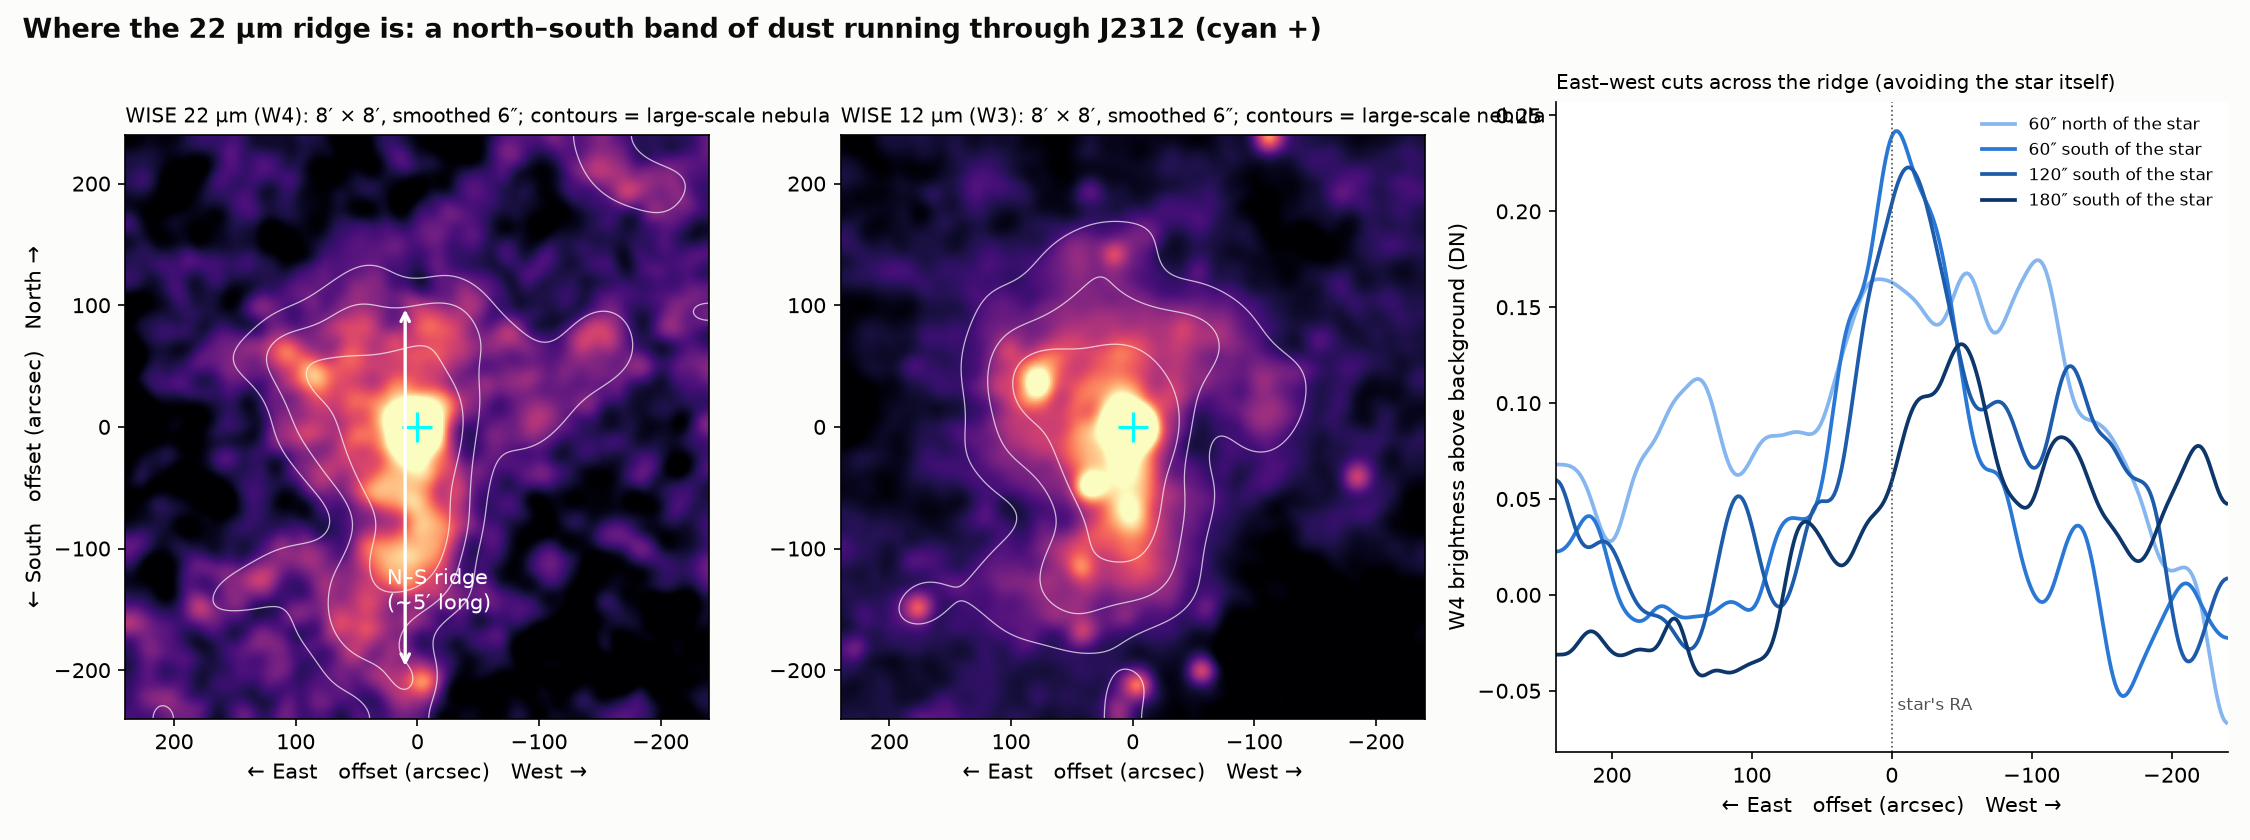
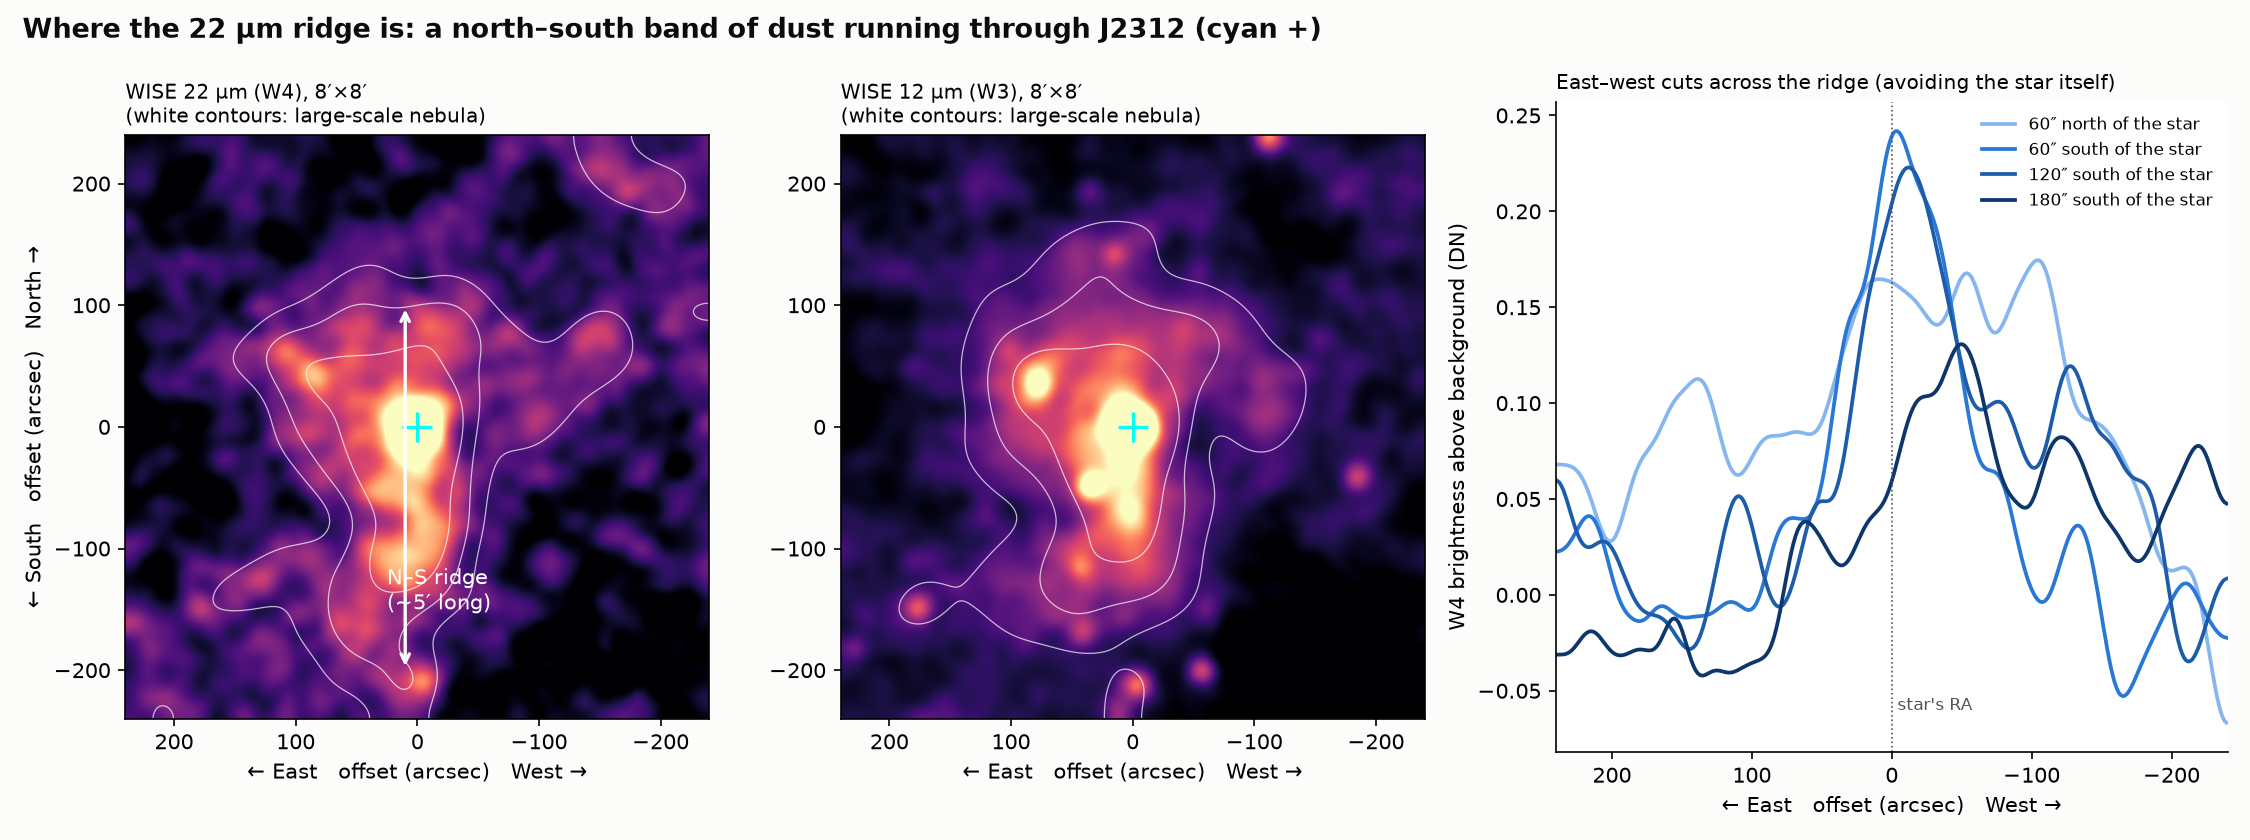
J2312 ridge figure: fix broken title string and overlapping titles

Changed region(s): [[0.0622, 0.0929, 0.6844, 0.1548]]

diff --git a/src/checks/j2312_ridge_plot.py b/src/checks/j2312_ridge_plot.py
@@ -42,8 +42,7 @@ for k, (b, lab) in enumerate((("w4", "WISE 22 µm (W4)"), ("w3", "WISE 12 µm (W
         ax.text(25, -150, "N–S ridge\n(~5′ long)", color="w", fontsize=10, ha="left")
     ax.set_xlim(half, -half); ax.set_ylim(-half, half)
     ax.set_xlabel("← East   offset (arcsec)   West →"); ax.set_ylabel("← South   offset (arcsec)   North →" if k == 0 else "")
-    ax.set_title(f"{lab}, 8′×8′
-(white contours: large-scale nebula)", fontsize=9.5, loc="left")
+    ax.set_title(f"{lab}, 8′×8′\n(white contours: large-scale nebula)", fontsize=9.5, loc="left")
     if b == "w4":
         w4, cx, cy = sub, n, n
 # E-W brightness cuts across the ridge in W4 at several declination offsets
